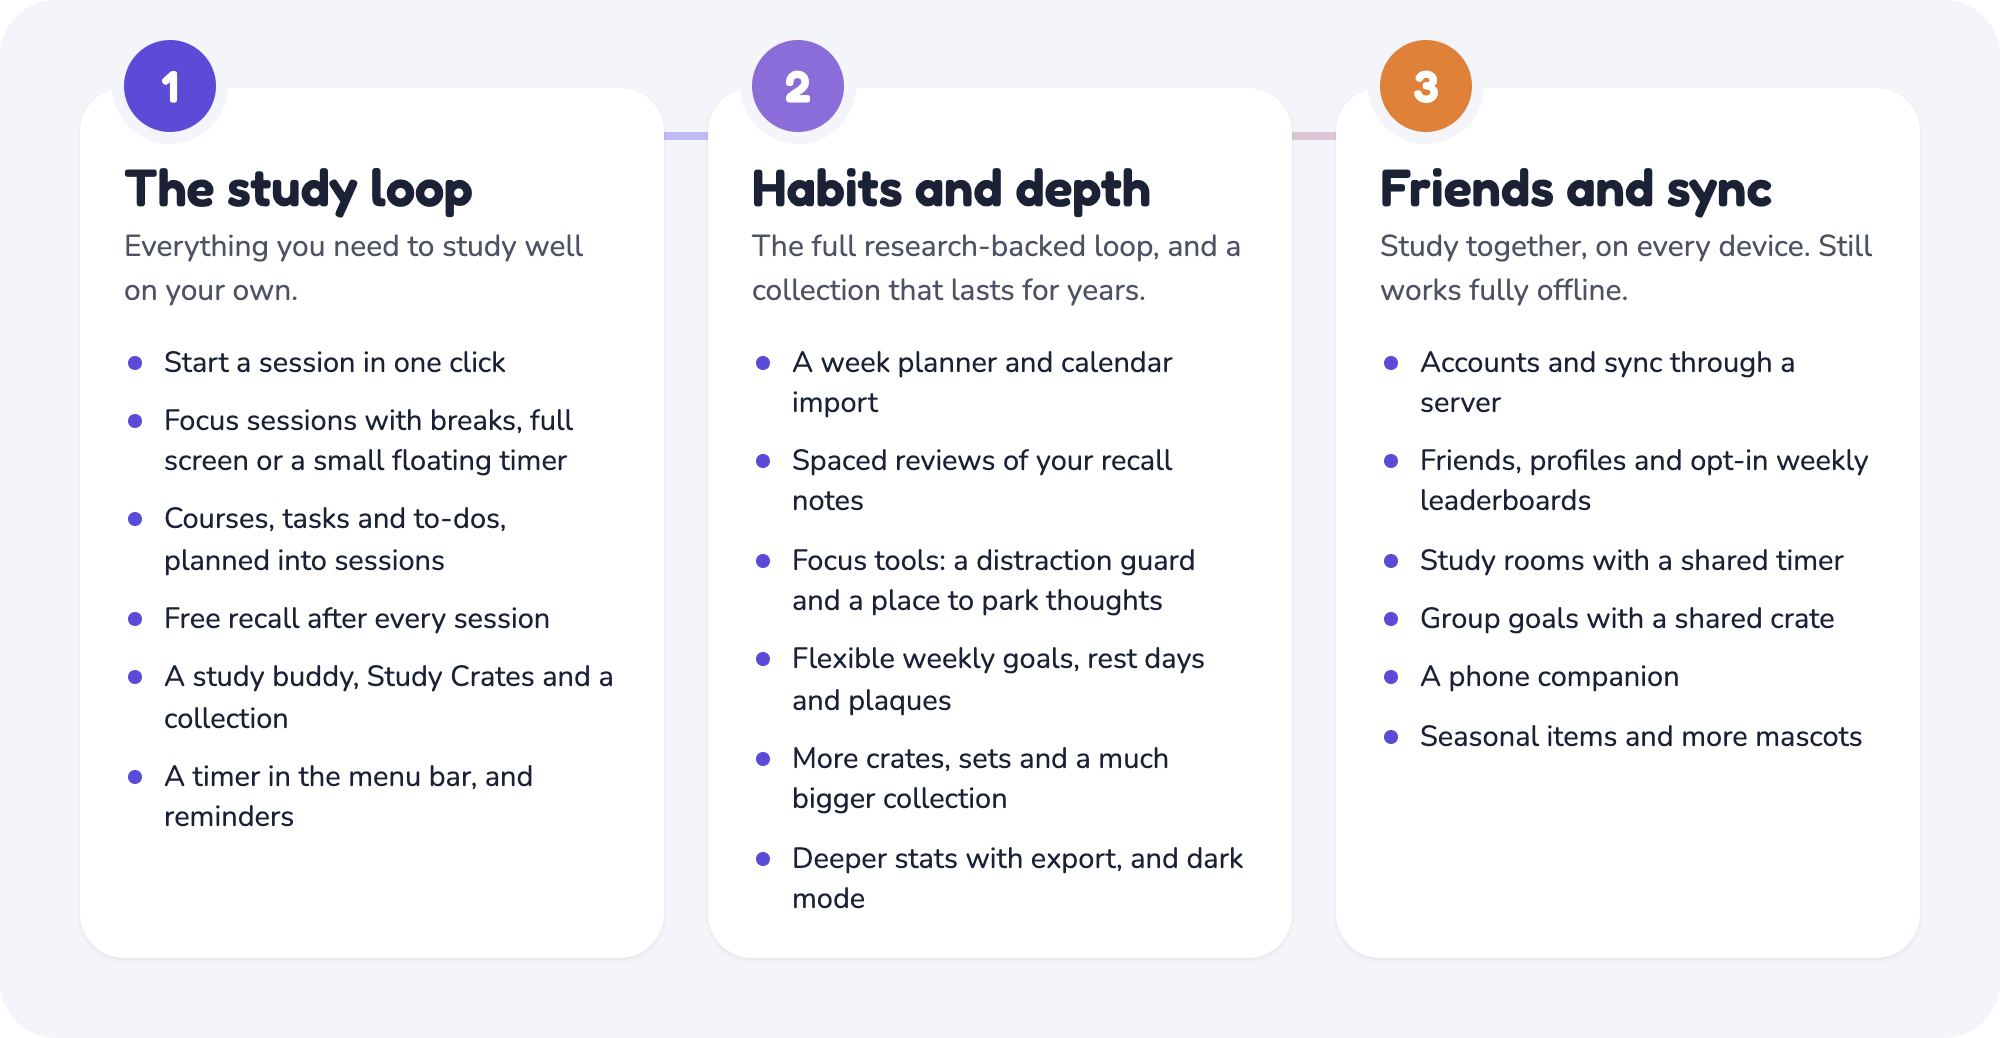
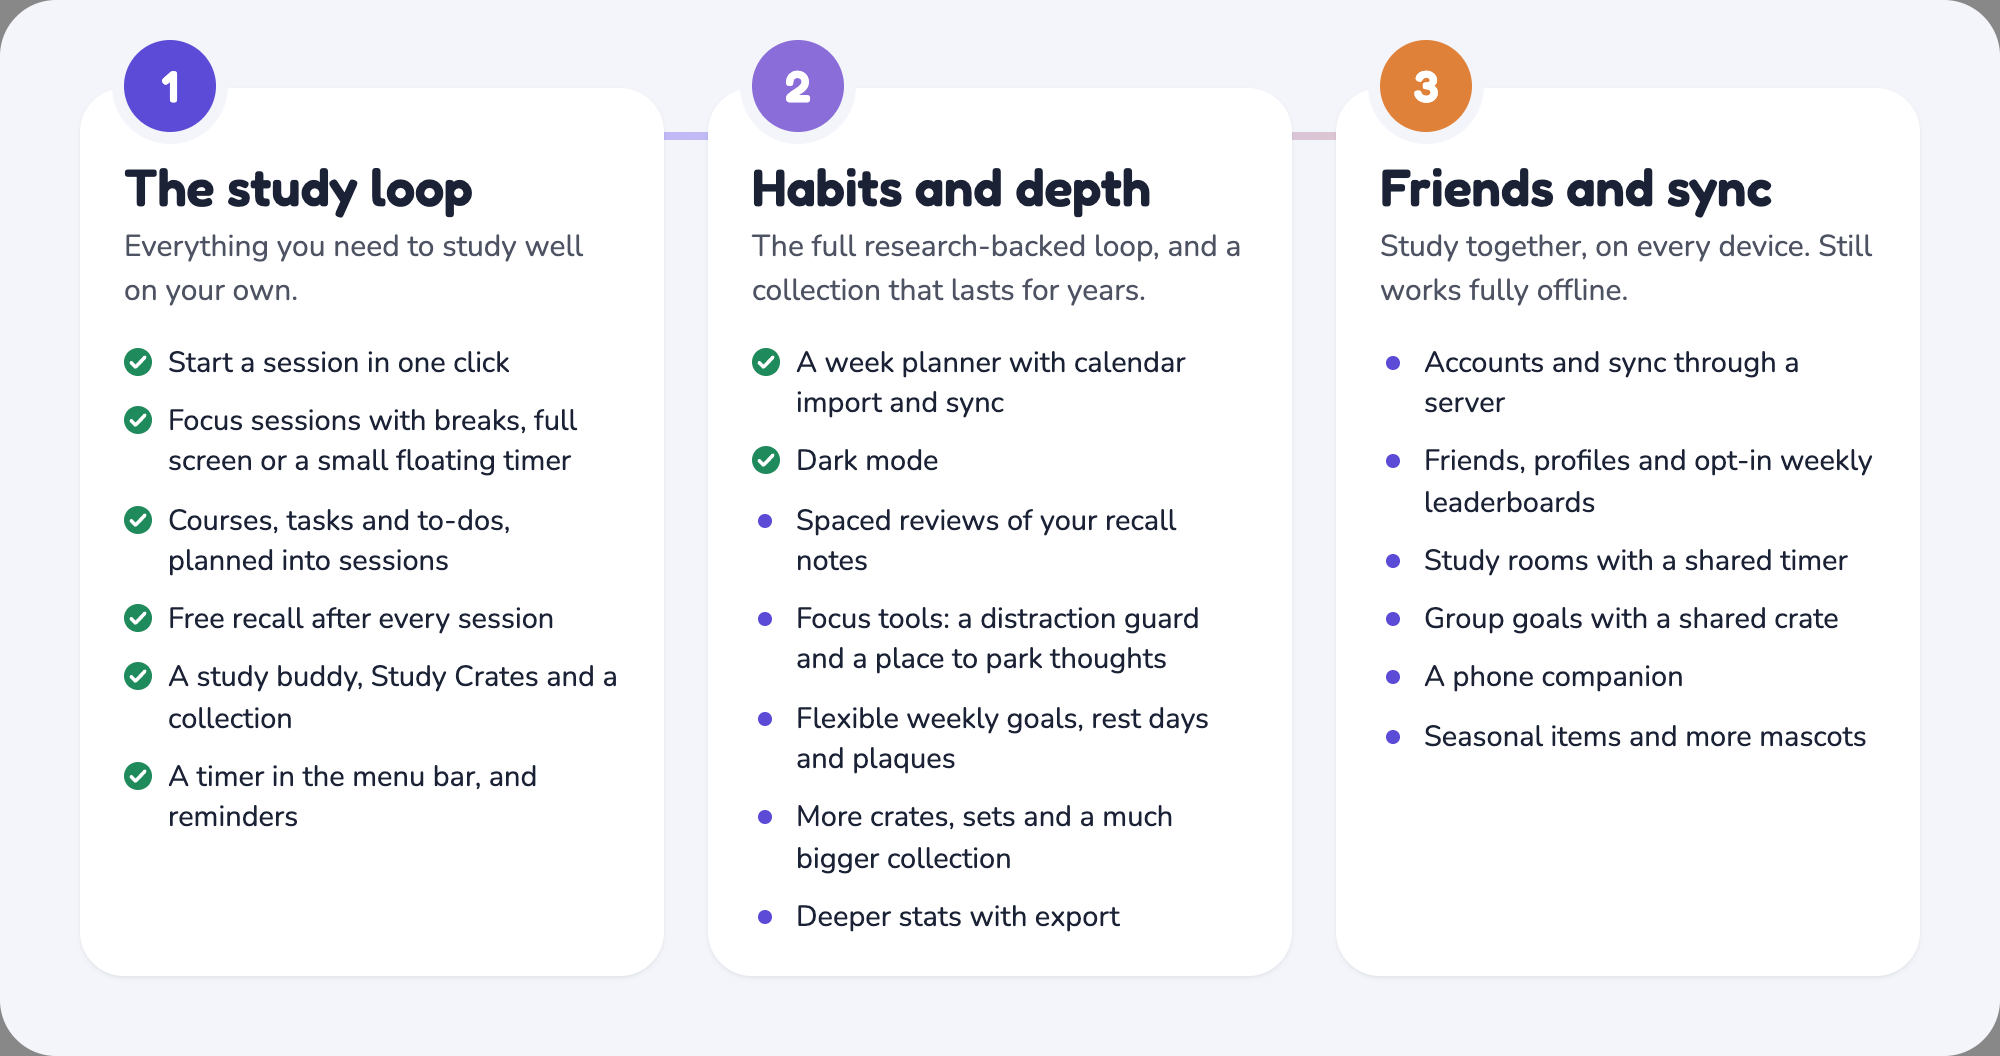
Show the week plan in the README with new pictures
All README pictures are taken again from made-up demo data. The hero
now shows the week plan, and a new "Plan your week" section shows the
planner and the weekly look-ahead. The roadmap marks what is done.

Also fix two small things in the app: the Courses lead text no longer
mentions giving to-dos to sessions, and importing a calendar file now
clears the file field, so the same file can be imported again.

diff --git a/apps/desktop/src/routes/settings/+page.svelte b/apps/desktop/src/routes/settings/+page.svelte
@@ -114,10 +114,12 @@
   }
 
   async function importFile(event: Event): Promise<void> {
-    const file = (event.currentTarget as HTMLInputElement).files?.[0];
+    // currentTarget is gone once the handler awaits, so keep the input.
+    const input = event.currentTarget as HTMLInputElement;
+    const file = input.files?.[0];
     if (!file) return;
     calendarError = calendars.addFile(file.name, await file.text());
-    (event.currentTarget as HTMLInputElement).value = "";
+    input.value = "";
   }
 
   let connecting = $state(false);

diff --git a/apps/desktop/src/routes/courses/+page.svelte b/apps/desktop/src/routes/courses/+page.svelte
@@ -62,7 +62,7 @@
 <header class="top">
   <div>
     <h1>Courses</h1>
-    <p class="lead">Add the courses you study, then tasks and to-dos. Give to-dos to a planned session to decide what it is for.</p>
+    <p class="lead">Add the courses you study, then tasks and to-dos. The top to-do of a task is always its next step.</p>
   </div>
   {#if open !== "course:new"}
     <button type="button" class="primary" onclick={() => (open = "course:new")}>Add course</button>

diff --git a/README.md b/README.md
@@ -21,7 +21,7 @@
 </p>
 
 <p align="center">
-  <img src="docs/readme/hero.png" width="900" alt="Headstart's Today screen with the next planned session and its to-do, a compact timer floating on top counting down 15:44, the same countdown with a progress ring in the menu bar, and Maple the red panda beside it saying: 15 minutes to your break, you've got this">
+  <img src="docs/readme/hero.png" width="900" alt="Headstart's Week plan: three days of study sessions grouped into blocks around lectures from an imported schedule, with the tasks still to plan beside them. A compact timer floats on top counting down 15:44, the same countdown shows with a progress ring in the menu bar, and Maple the red panda says: 15 minutes to your break. You've got this!">
 </p>
 
 ## Why Headstart
@@ -40,13 +40,30 @@ Headstart turns studying into small, concrete sessions:
 ## How a session works
 
 <p align="center">
-  <img src="docs/readme/loop.png" width="900" alt="Four steps. Plan: a task with its to-dos. Focus: the countdown with Maple. Recall: writing down what you remember and rating your focus. Collect: a Study Crate revealing a rare Telescope">
+  <img src="docs/readme/loop.png" width="900" alt="Four steps. Plan: study blocks in the week plan. Focus: the countdown with Maple. Recall: writing down what you remember and rating your focus. Collect: a Study Crate revealing an epic Study Lantern">
 </p>
 
 1. **Plan.** Add your courses, their tasks and to-dos. Drag a task into the week plan, or drag over free time, and it fills with sessions and breaks.
 2. **Focus.** Start in one click from the app, the menu bar or a keyboard shortcut. Study in the window, in full screen or with a small timer that floats above everything else.
 3. **Recall.** When the timer ends, write down what you remember, rate your focus and tick off what you got done. The rest goes back on the list.
 4. **Collect.** Every three sessions earn a Study Crate. Open it for an item, put it on your buddy, and work towards complete sets.
+
+## Plan your week
+
+<p align="center">
+  <img src="docs/readme/screen-plan.png" width="820" alt="The Week plan showing Monday to Wednesday: study blocks in the colour of each course, such as Mechanics 10:30 to 11:25 as 2 × 25 minutes and Programming 15:30 to 16:55 as 3 × 25 minutes with their breaks marked on the left edge, lectures from the autumn schedule as grey busy time, and a To plan list with tasks sorted by due date and how many sessions each still needs">
+</p>
+<p align="center"><b>Week plan.</b> The next few days, one day or the whole week, with your lectures as busy time and the tasks that still need sessions beside it.</p>
+
+- **Drag to plan.** Drag over free time, or drag a task from To plan into the calendar. Two hours become 4 × 25 minutes with breaks, kept together as one block that you move and change in one go.
+- **Tasks know what is left.** Give a task a rough size or your own number of sessions and a date. To plan shows what is done, planned and still to plan, soonest first.
+- **Your schedule comes along.** Add a TimeEdit, Canvas or other calendar link, or import an `.ics` file, and plan around your lectures. On macOS, every session can also show up in Apple Calendar, on your phone too.
+- **Moves like a calendar.** Swipe with two fingers to go back and forth, and fold To plan away when you only want the calendar.
+
+<p align="center">
+  <img src="docs/readme/screen-lookahead.png" width="820" alt="The weekly look-ahead, step two of four: the week ahead day by day with lectures and deadlines from the calendar and task dates, how much free time each day has, and a note that there are two deadlines this week">
+</p>
+<p align="center"><b>Weekly look-ahead.</b> Optional, two minutes on a day you choose: last week in numbers, the week ahead, a goal and planning the next two days.</p>
 
 ## Meet your study buddy
 
@@ -65,6 +82,11 @@ There are **154 items** to find in five themed sets, from simple commons to anim
 ## A look inside
 
 <p align="center">
+  <img src="docs/readme/screen-today.png" width="820" alt="The Today screen: the next session, Problem set 3 at 10:30, with its next step and if-then plan, the on-time streak at 22 in a row, focus time, crate progress, and today's plan below">
+</p>
+<p align="center"><b>Today.</b> The next session with its first step and if-then plan, one click from starting, and the rest of today's plan below.</p>
+
+<p align="center">
   <img src="docs/readme/screen-focus.png" width="820" alt="The focus view: a large countdown ring at 15:45, Maple focusing, and the session's checklist with one to-do ticked off">
 </p>
 <p align="center"><b>Focus.</b> A big, calm countdown and the to-dos this session is for. Space pauses, +5 min extends, and you can switch course mid-session.</p>
@@ -75,17 +97,17 @@ There are **154 items** to find in five themed sets, from simple commons to anim
 <p align="center"><b>Session complete.</b> What you earned, then a minute to write down what you remember.</p>
 
 <p align="center">
-  <img src="docs/readme/screen-crate.png" width="820" alt="A Study Crate revealing a rare Telescope on Maple, part of the Space set">
+  <img src="docs/readme/screen-crate.png" width="820" alt="A Study Crate revealing an epic Study Lantern on Maple, part of the Cosy set">
 </p>
 <p align="center"><b>Study Crates.</b> Each item is revealed on your own buddy and can be put on right away.</p>
 
 <p align="center">
-  <img src="docs/readme/screen-collection.png" width="820" alt="The wardrobe: Maple wearing a party hat, glasses, a scarf and a telescope, with the items found so far for each slot">
+  <img src="docs/readme/screen-collection.png" width="820" alt="The wardrobe: Maple wearing a striped beanie, blue glasses, a teal lanyard and the Study Lantern, with the items found so far for each slot">
 </p>
 <p align="center"><b>Collection.</b> A wardrobe for each buddy, every item in the catalogue and your progress on each set.</p>
 
 <p align="center">
-  <img src="docs/readme/screen-courses.png" width="820" alt="The Courses page: Linear Algebra with the task Eigenvalues, chapter 5 and its to-dos, each with a grip to drag it into order and a picker to give it to a session">
+  <img src="docs/readme/screen-courses.png" width="820" alt="The Courses page: Linear Algebra with the task Eigenvalues, chapter 5 and its to-dos, each with a grip to drag it into order, and the next step marked">
 </p>
 <p align="center"><b>Courses.</b> Course codes, tasks and to-dos you drag into the order you want. The top one is always the next step.</p>
 
@@ -117,11 +139,11 @@ There are **154 items** to find in five themed sets, from simple commons to anim
 <p align="center">
   <picture>
     <source media="(prefers-color-scheme: dark)" srcset="docs/readme/roadmap-dark.png">
-    <img src="docs/readme/roadmap-light.png" width="900" alt="Three stages. 1, The study loop: everything you need to study well on your own. 2, Habits and depth: a week planner, spaced reviews, focus tools, weekly goals and plaques, a bigger collection and deeper stats. 3, Friends and sync: accounts and sync through a server, friends and leaderboards, study rooms, group goals and a phone companion">
+    <img src="docs/readme/roadmap-light.png" width="900" alt="Three stages. 1, The study loop, all done: everything you need to study well on your own. 2, Habits and depth, under way: the week planner with calendar import and sync and dark mode are done; spaced reviews, focus tools, weekly goals and plaques, a bigger collection and deeper stats are next. 3, Friends and sync: accounts and sync through a server, friends and leaderboards, study rooms, group goals and a phone companion">
   </picture>
 </p>
 
-Headstart grows in three stages. **Stage 1 is out** ([v0.2.0](https://github.com/ChonkieMonkie/headstart/releases/tag/v0.2.0)), and **stage 2** is under way, starting with the week planner. Each stage ships in small releases, and installed apps update themselves. Stages 1 and 2 never need a server; stage 3 adds an optional one for sync and friends, and the app keeps working fully offline.
+Headstart grows in three stages. **Stage 1 is out** ([v0.2.0](https://github.com/ChonkieMonkie/headstart/releases/tag/v0.2.0)), and **stage 2** is under way: the week planner and dark mode came in [v0.3.0](https://github.com/ChonkieMonkie/headstart/releases/tag/v0.3.0). Each stage ships in small releases, and installed apps update themselves. Stages 1 and 2 never need a server; stage 3 adds an optional one for sync and friends, and the app keeps working fully offline.
 
 ## Built to run all day
 
